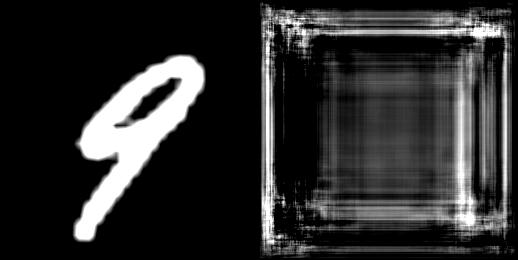
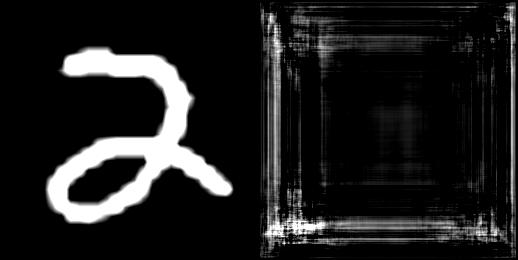
adding stage 1 params

diff --git a/trainer/trainer.py b/trainer/trainer.py
@@ -2,9 +2,10 @@
 https://github.com/dome272/VQGAN-pytorch/blob/main/training_vqgan.py
 """
 
+# Importing Libraries
 import os
 
-# Importing Libraries
+import imageio
 import lpips
 import torch
 import torch.nn.functional as F
@@ -18,33 +19,60 @@ from vqgan import VQGAN, Discriminator
 class VQGANTrainer:
     """Trainer class for VQGAN, contains step, train, and test methods"""
 
-    def __init__(self, device: str or torch.device = "cuda"):
+    def __init__(
+        self,
+        model: torch.nn.Module,
+        device: str or torch.device = "cuda",
+        # VQ parameters
+        img_channels: int = 3,
+        # Discriminator parameters
+        disc_factor: float = 1.0,
+        disc_start: int = 100,
+        # Loss parameters
+        perceptual_loss_factor: float = 1.0,
+        rec_loss_factor: float = 1.0,
+        # Training parameters
+        learning_rate: float = 2.25e-05,
+        beta1: float = 0.5,
+        beta2: float = 0.9,
+        save_every: int = 100,
+        # Miscellaneous parameters
+        experiment_dir: str = "./experiments",
+        perceptual_model: str = "vgg",
+    ):
 
-        self.device = "cuda" if torch.cuda.is_available() else "cpu"
+        self.device = device
 
-        self.vqgan = VQGAN(img_channels=1).to(self.device)
-        self.discriminator = Discriminator(image_channels=1).to(self.device)
+        # VQGAN parameters
+        self.vqgan = model
+
+        # Discriminator parameters
+        self.discriminator = Discriminator(image_channels=img_channels).to(self.device)
         self.discriminator.apply(weights_init)
 
-        self.perceptual_loss = lpips.LPIPS(net="vgg").to(self.device)
+        # Loss parameters
+        self.perceptual_loss = lpips.LPIPS(net=perceptual_model).to(self.device)
 
-        self.dataloader = load_dataloader(
-            name="mnist", image_size=256, batch_size=1, save_path="data"
+        # Optimizers
+        self.opt_vq, self.opt_disc = self.configure_optimizers(
+            learning_rate=learning_rate, beta1=beta1, beta2=beta2
         )
 
-        self.opt_vq, self.opt_disc = self.configure_optimizers()
-
         # Hyperprameters
-        self.global_step = 0
-        self.disc_factor = 1.0
-        self.disc_start = 100
-        self.perceptual_loss_factor = 1.0
-        self.rec_loss_factor = 1.0
+        self.disc_factor = disc_factor
+        self.disc_start = disc_start
+        self.perceptual_loss_factor = perceptual_loss_factor
+        self.rec_loss_factor = rec_loss_factor
 
         # Save directory
-        self.expriment_save_dir = "experiments"
-        clean_directory(self.expriment_save_dir)
+        self.expriment_save_dir = experiment_dir
+        clean_directory(self.expriment_save_dir + "/reconstructed_imgs")
 
+        # Miscellaneous
+        self.global_step = 0
+        self.sample_batch = None
+        self.gif_images = []
+        self.save_every = save_every
 
     def configure_optimizers(
         self, learning_rate: float = 2.25e-05, beta1: float = 0.5, beta2: float = 0.9
@@ -133,15 +161,16 @@ class VQGANTrainer:
 
         return decoded_images, vq_loss, gan_loss
 
-    def train(self, epochs: int = 100):
+    def train(self, epochs: int = 100, dataloader: torch.utils.data.DataLoader = None):
         """Trains the VQGAN for the given number of epochs
 
         Args:
             epochs (int, optional): number of epochs to train for. Defaults to 100.
+            dataloader (torch.utils.data.DataLoader, optional): dataloader to use. Defaults to None.
         """
 
         for epoch in range(epochs):
-            for index, (imgs, _) in enumerate(self.dataloader):
+            for index, imgs in enumerate(dataloader):
 
                 # Training step
                 imgs = imgs.to(self.device)
@@ -151,10 +180,30 @@ class VQGANTrainer:
                 # Updating global step
                 self.global_step += 1
 
-                if index % 20 == 0:
+                if index % self.save_every == 0:
+                    self.sample_batch = (
+                        imgs[:1] if self.sample_batch is None else self.sample_batch
+                    )
 
                     with torch.no_grad():
+
+                        self.gif_images.append(
+                            torchvision.utils.make_grid(
+                                torch.cat(
+                                    (
+                                        self.sample_batch,
+                                        self.vqgan(self.sample_batch)[0],
+                                    ),
+                                )
+                            )
+                            .detach()
+                            .cpu()
+                            .permute(1, 2, 0)
+                            .numpy()
+                        )
+
                         real_fake_images = torch.cat((imgs[:4], decoded_images[:4]))
+
                         torchvision.utils.save_image(
                             real_fake_images,
                             os.path.join(
@@ -166,7 +215,7 @@ class VQGANTrainer:
                         )
 
                     print(
-                        f"Epoch: {epoch+1}/{epochs} | Batch: {index}/{len(self.dataloader)} | VQ Loss : {vq_loss:.4f} | Discriminator Loss: {gan_loss:.4f}"
+                        f"Epoch: {epoch+1}/{epochs} | Batch: {index}/{len(dataloader)} | VQ Loss : {vq_loss:.4f} | Discriminator Loss: {gan_loss:.4f}"
                     )
 
                     if index % 100 == 0:
@@ -178,9 +227,12 @@ class VQGANTrainer:
                                 self.expriment_save_dir, f"vqgan_epoch_{epoch}.pt"
                             ),
                         )
-                        generate_gif(
-                            os.path.join(self.expriment_save_dir, "reconstructed_imgs"),
-                            os.path.join(
-                                self.expriment_save_dir, "reconstructed_imgs.gif"
-                            ),
-                        )
+
+                        # Saving gif
+                        # generate_gif(
+                        #     os.path.join(self.expriment_save_dir, "reconstructed_imgs"),
+                        #     os.path.join(
+                        #         self.expriment_save_dir, "reconstructed_imgs.gif"
+                        #     ),
+                        # )
+                        imageio.mimsave("movie.gif", self.gif_images, fps=5)

diff --git a/dataloader/mnist.py b/dataloader/mnist.py
@@ -1,5 +1,8 @@
+# Importing Libraries
 import torch
 import torchvision
+
+from utils import collate_fn
 
 
 def load_mnist(
@@ -21,24 +24,27 @@ def load_mnist(
     """
 
     # Load the data
-    dataloader = torch.utils.data.DataLoader(
-        torchvision.datasets.MNIST(
-            root=save_path,
-            train=True,
-            download=True,
-            transform=torchvision.transforms.Compose(
-                [
-                    torchvision.transforms.Resize((image_size, image_size)),
-                    torchvision.transforms.Grayscale(num_output_channels=1),
-                    torchvision.transforms.ToTensor(),
-                    torchvision.transforms.Normalize((0.1307,), (0.3081,)),
-                ]
-            ),
+    mnist_data = torchvision.datasets.MNIST(
+        root=save_path,
+        train=True,
+        download=True,
+        transform=torchvision.transforms.Compose(
+            [
+                torchvision.transforms.Resize((image_size, image_size)),
+                torchvision.transforms.Grayscale(num_output_channels=1),
+                torchvision.transforms.ToTensor(),
+                torchvision.transforms.Normalize((0.1307,), (0.3081,)),
+            ]
         ),
+    )
+
+    dataloader = torch.utils.data.DataLoader(
+        mnist_data,
         batch_size=batch_size,
         shuffle=True,
         num_workers=num_workers,
         pin_memory=True,
+        collate_fn=collate_fn,
     )
 
     return dataloader

diff --git a/train.py b/train.py
@@ -1,10 +1,28 @@
 # Importing Libraries
 from trainer import VQGANTrainer
+from dataloader import load_dataloader
+from utils import reproducibility
+from vqgan import VQGAN
 
+# Reproducibility
+reproducibility(42)
+
+model = VQGAN(
+            img_channels=1,
+            # img_size=img_size,
+            # latent_channels=latent_channels,
+            # latent_size=latent_size,
+            # intermediate_channels=intermediate_channels,
+            # num_residual_blocks_encoder=num_residual_blocks_encoder,
+            # num_residual_blocks_decoder=num_residual_blocks_decoder,
+            # dropout=dropout,
+            # attention_resolution=attention_resolution,
+            # num_codebook_vectors=num_codebook_vectors,
+        ).to("cuda")
 
 # Setting up the trainer
-trainer = VQGANTrainer()
-
+trainer = VQGANTrainer(model=model, img_channels=1)
 
 # Training the model 
-trainer.train()
+dataloader = load_dataloader(name="mnist", save_path="data", batch_size=1, image_size=256, num_workers=4)
+trainer.train(epochs=100, dataloader=dataloader)

diff --git a/utils/utils.py b/utils/utils.py
@@ -1,9 +1,11 @@
 # Importing Libraries
 import glob
 import os
+import random
 import shutil
 
 import imageio
+import numpy as np
 import torch
 from torchsummary import summary
 
@@ -69,3 +71,30 @@ def clean_directory(directory: str):
     if os.path.exists(directory):
         shutil.rmtree(directory)
     os.mkdir(directory)
+
+
+def reproducibility(seed: int = 42):
+    """Set the random seed.
+
+    Args:
+        seed (int): The seed to use.
+
+    Returns:
+        None
+    """
+
+    torch.manual_seed(seed)
+    torch.cuda.manual_seed(seed)
+
+    np.random.seed(seed)
+    random.seed(seed)
+
+
+def collate_fn(batch):
+    """
+    Collate function for the dataloader like mnist or cifar10.
+    """
+
+    imgs = torch.stack([img[0] for img in batch])
+
+    return imgs

diff --git a/dataloader/cifar10.py b/dataloader/cifar10.py
@@ -1,5 +1,8 @@
+# Importing Libraries
 import torch
 import torchvision
+
+from utils import collate_fn
 
 
 def load_cifar10(
@@ -38,6 +41,7 @@ def load_cifar10(
         shuffle=True,
         num_workers=num_workers,
         pin_memory=True,
+        collate_fn=collate_fn,
     )
 
     return dataloader

diff --git a/utils/__init__.py b/utils/__init__.py
@@ -1,1 +1,1 @@
-from .utils import weights_init, print_summary, generate_gif, clean_directory
+from .utils import weights_init, print_summary, generate_gif, clean_directory, reproducibility, collate_fn

diff --git a/README.md b/README.md
@@ -107,8 +107,6 @@ The above loss is for the discriminator which takes in real and generated images
 
 The discrimination here is a bit different than conventional discriminators in that, instead of taking whole images as an input, they instead convert the images into patches using convolution and then predict which patch is real or fake.  
 
-<br>
-
 ---
 
 $$
